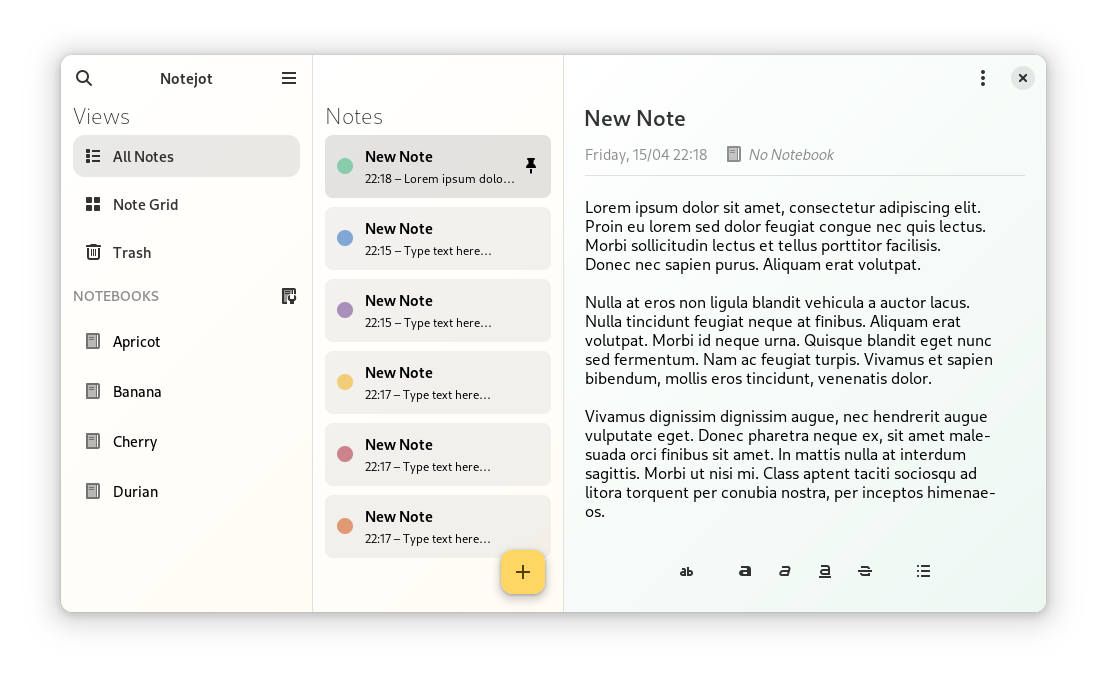
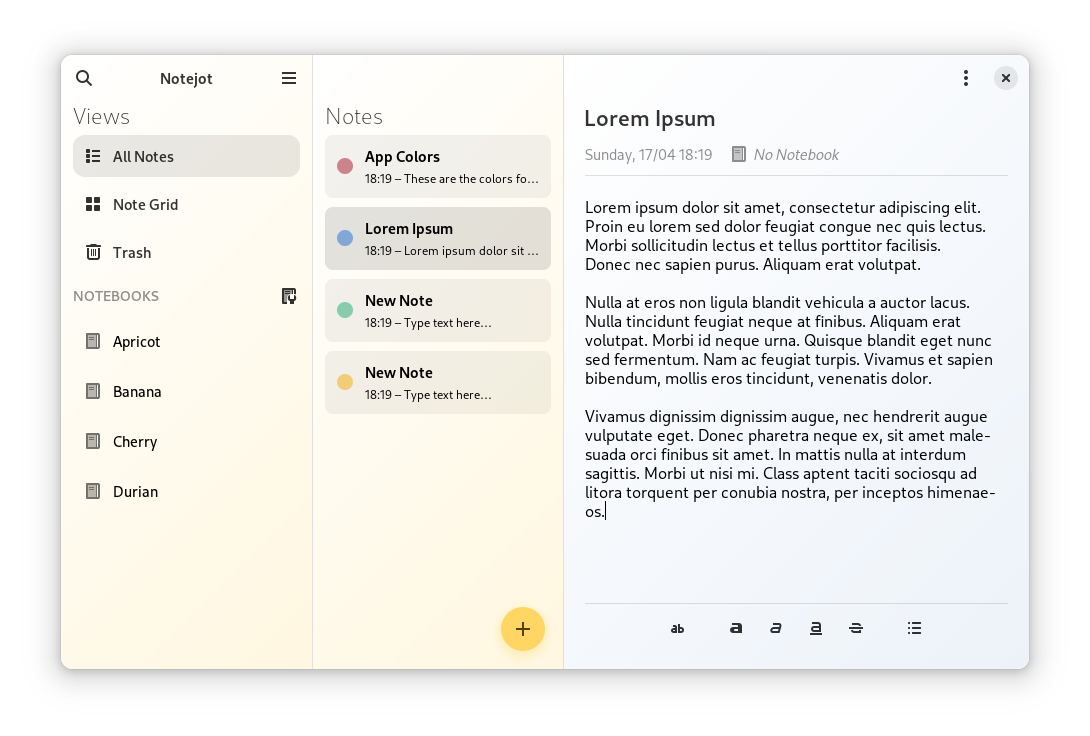
* - Solo 2.0 UI

diff --git a/data/style.css b/data/style.css
@@ -33,37 +33,33 @@
 
 .list-action-button {
   padding: 10px;
-  border-radius: 12px;
-  box-shadow: 0 1px 3px 0 alpha(black, 0.3),
-              0 4px 8px 3px alpha(black, 0.15);
-}
-.list-action-button:hover {
-  box-shadow: 0 2px 3px 0 alpha(black, 0.3),
-              0 6px 10px 4px alpha(black, 0.15);
-}
-.list-action-button:active {
-  box-shadow: 0 1px 3px 0 alpha(black, 0.3),
-              0 4px 8px 3px alpha(black, 0.15);
+  border-radius: 999px;
 }
 .list-action-button.accent-button {
   background: @accent_bg_color;
   color: @accent_fg_color;
+  box-shadow: 0 4px 8px 3px alpha(@accent_bg_color, 0.30);
 }
 .list-action-button.accent-button:hover {
   background: shade(@accent_bg_color, 1.024);
+  box-shadow: 0 6px 10px 4px alpha(@accent_bg_color, 0.30);
 }
 .list-action-button.accent-button:active {
   background: shade(@accent_bg_color, 0.95);
+  box-shadow: 0 4px 8px 3px alpha(@accent_bg_color, 0.30);
 }
 .list-action-button.destructive-action {
   background: #f9dedc;
   color: #410e0b;
+  box-shadow: 0 4px 8px 3px alpha(#f9dedc, 0.30);
 }
 .list-action-button.destructive-action:hover {
   background: shade(#f9dedc, 1.024);
+  box-shadow: 0 6px 10px 4px alpha(#f9dedc, 0.30);
 }
 .list-action-button.destructive-action:active {
   background: shade(#f9dedc, 0.95);
+  box-shadow: 0 4px 8px 3px alpha(#f9dedc, 0.30);
 }
 
 .content-view {
@@ -95,7 +91,7 @@
 }
 
 .rounded-main-child {
-  background: linear-gradient(135deg, @view_bg_color, shade(@accent_bg_color, 1.41));
+  background: linear-gradient(135deg, @window_bg_color, mix(@window_bg_color, @accent_bg_color, 0.2));
   box-shadow: none;
   border: none;
 }
@@ -104,12 +100,12 @@
 }
 
 .rounded-main-child2 {
-  background: linear-gradient(135deg, @view_bg_color, shade(@accent_bg_color, 1.41));
+  background: linear-gradient(135deg, @window_bg_color, mix(@window_bg_color, @accent_bg_color, 0.2));
   box-shadow: none;
   border: none;
 }
 .rounded-main-child3 {
-  background: linear-gradient(135deg, @view_bg_color, shade(@accent_bg_color, 1.41));
+  background: linear-gradient(135deg, @window_bg_color, mix(@window_bg_color, @accent_bg_color, 0.2));
   box-shadow: none;
   border: none;
 }
